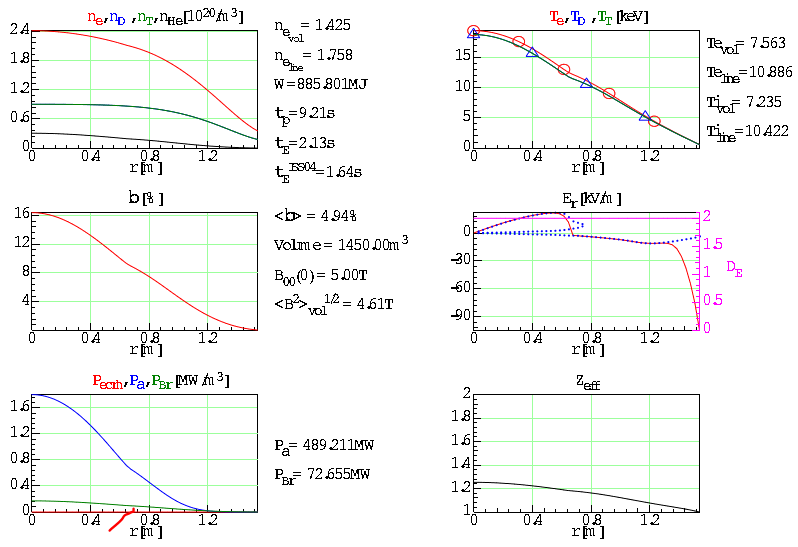
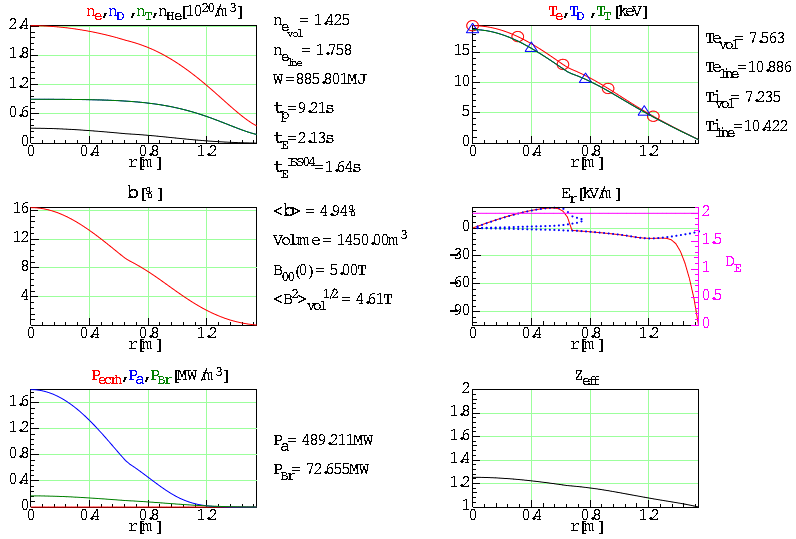
Removed random mark on one snapshot and set up super basic mirror ratio script.

diff --git a/eRootProject/NTSSstuff/mirrorRatio.py b/eRootProject/NTSSstuff/mirrorRatio.py
@@ -1,0 +1,10 @@
+# This script calculates the mirror ratio of wout_Lee_1, wout_Lee_2, and wout_Lee_3. The min and max |B| were obtained from VMECplot
+
+mins = [3.3142, 4.0283, 4.1522]
+maxes = [8.1282, 7.1282, 7.2144]
+
+for i in range(len(mins)):
+    minUse = mins[i]
+    maxUse = maxes[i]
+    mirrorRat = (maxUse - minUse)/(maxUse + minUse)
+    print(mirrorRat * 100)
